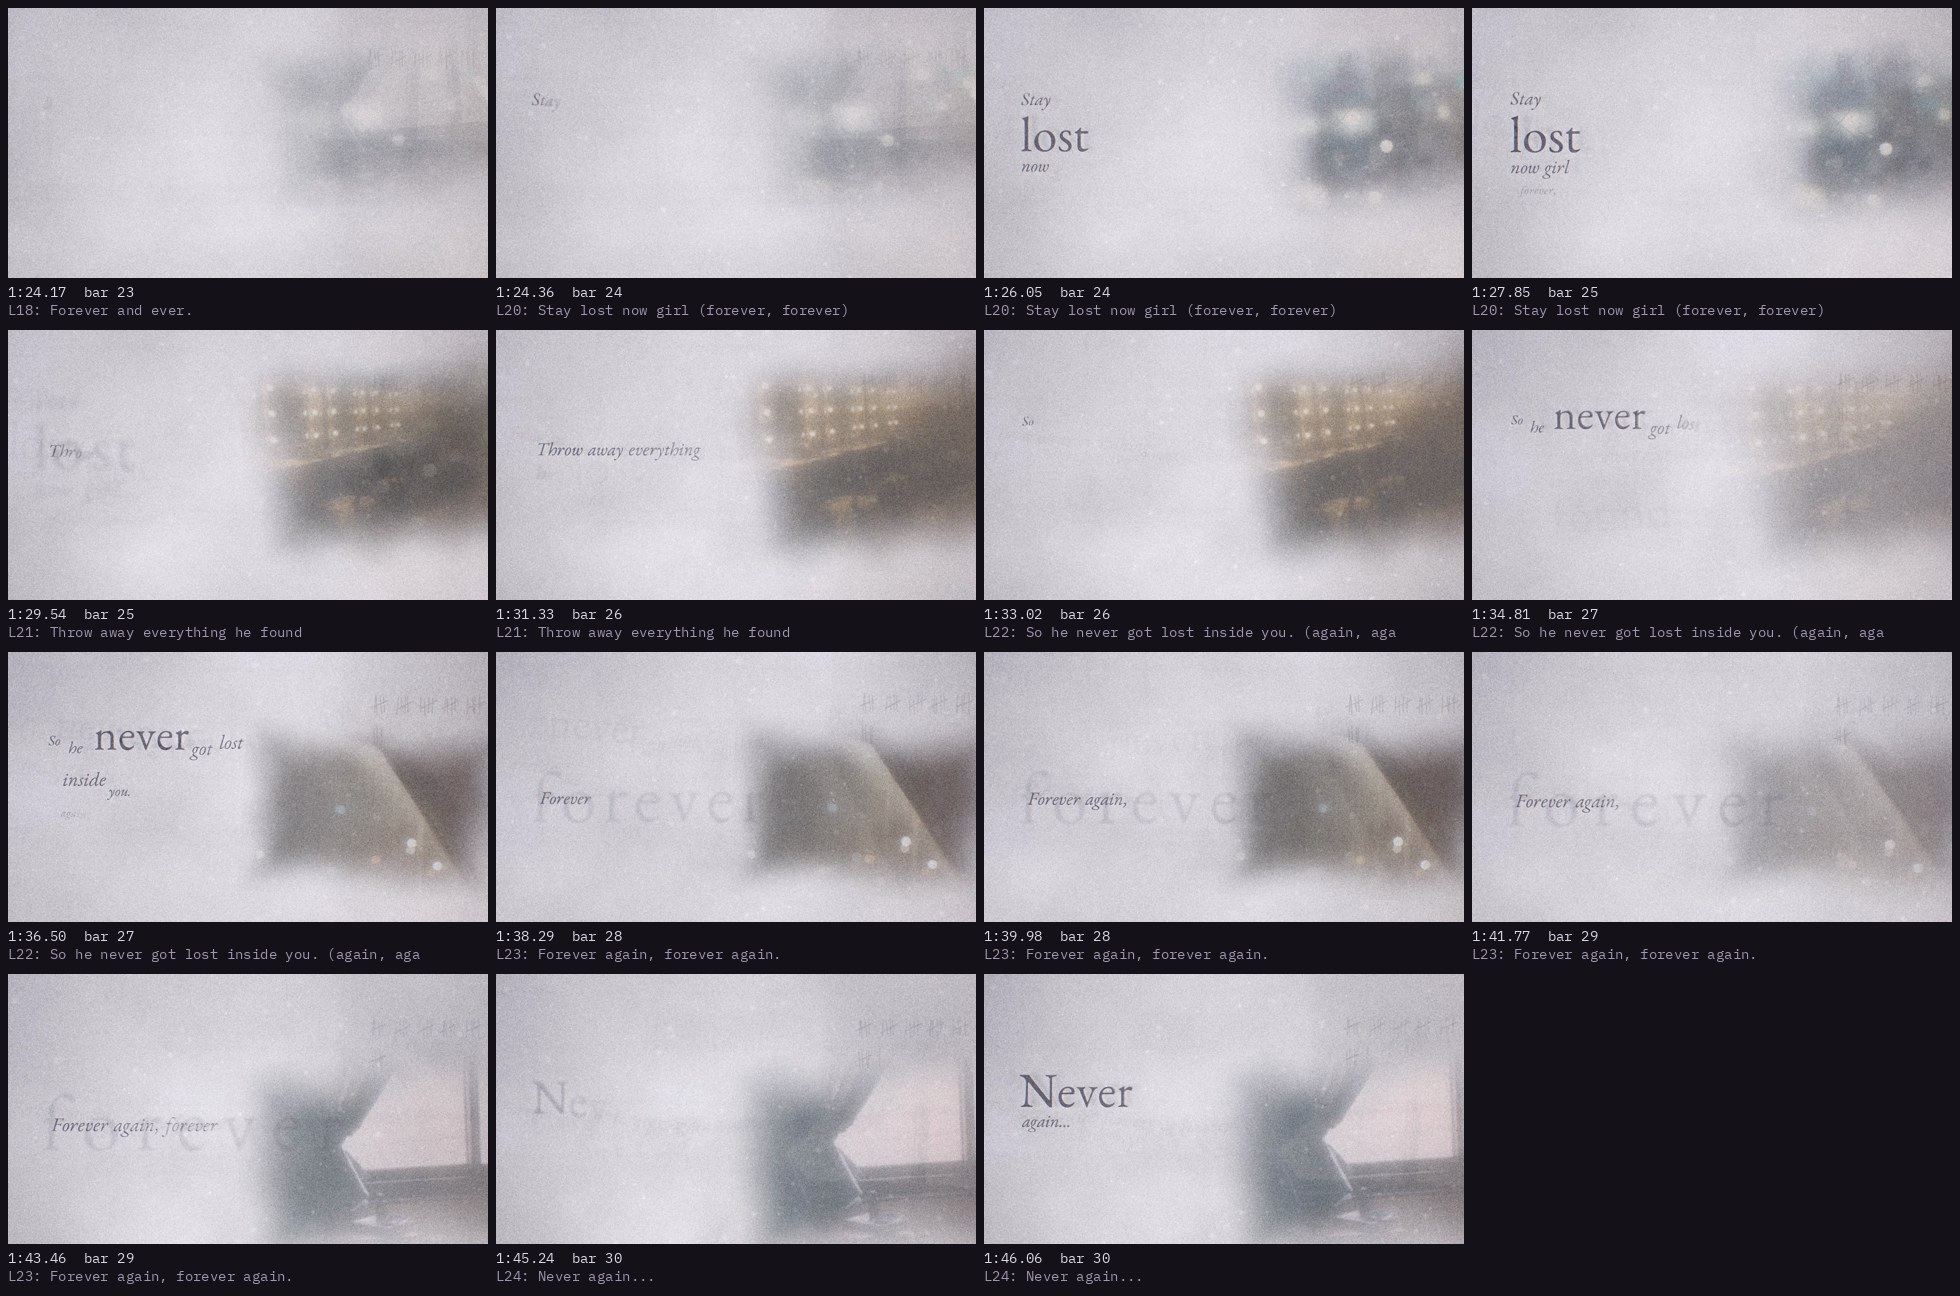
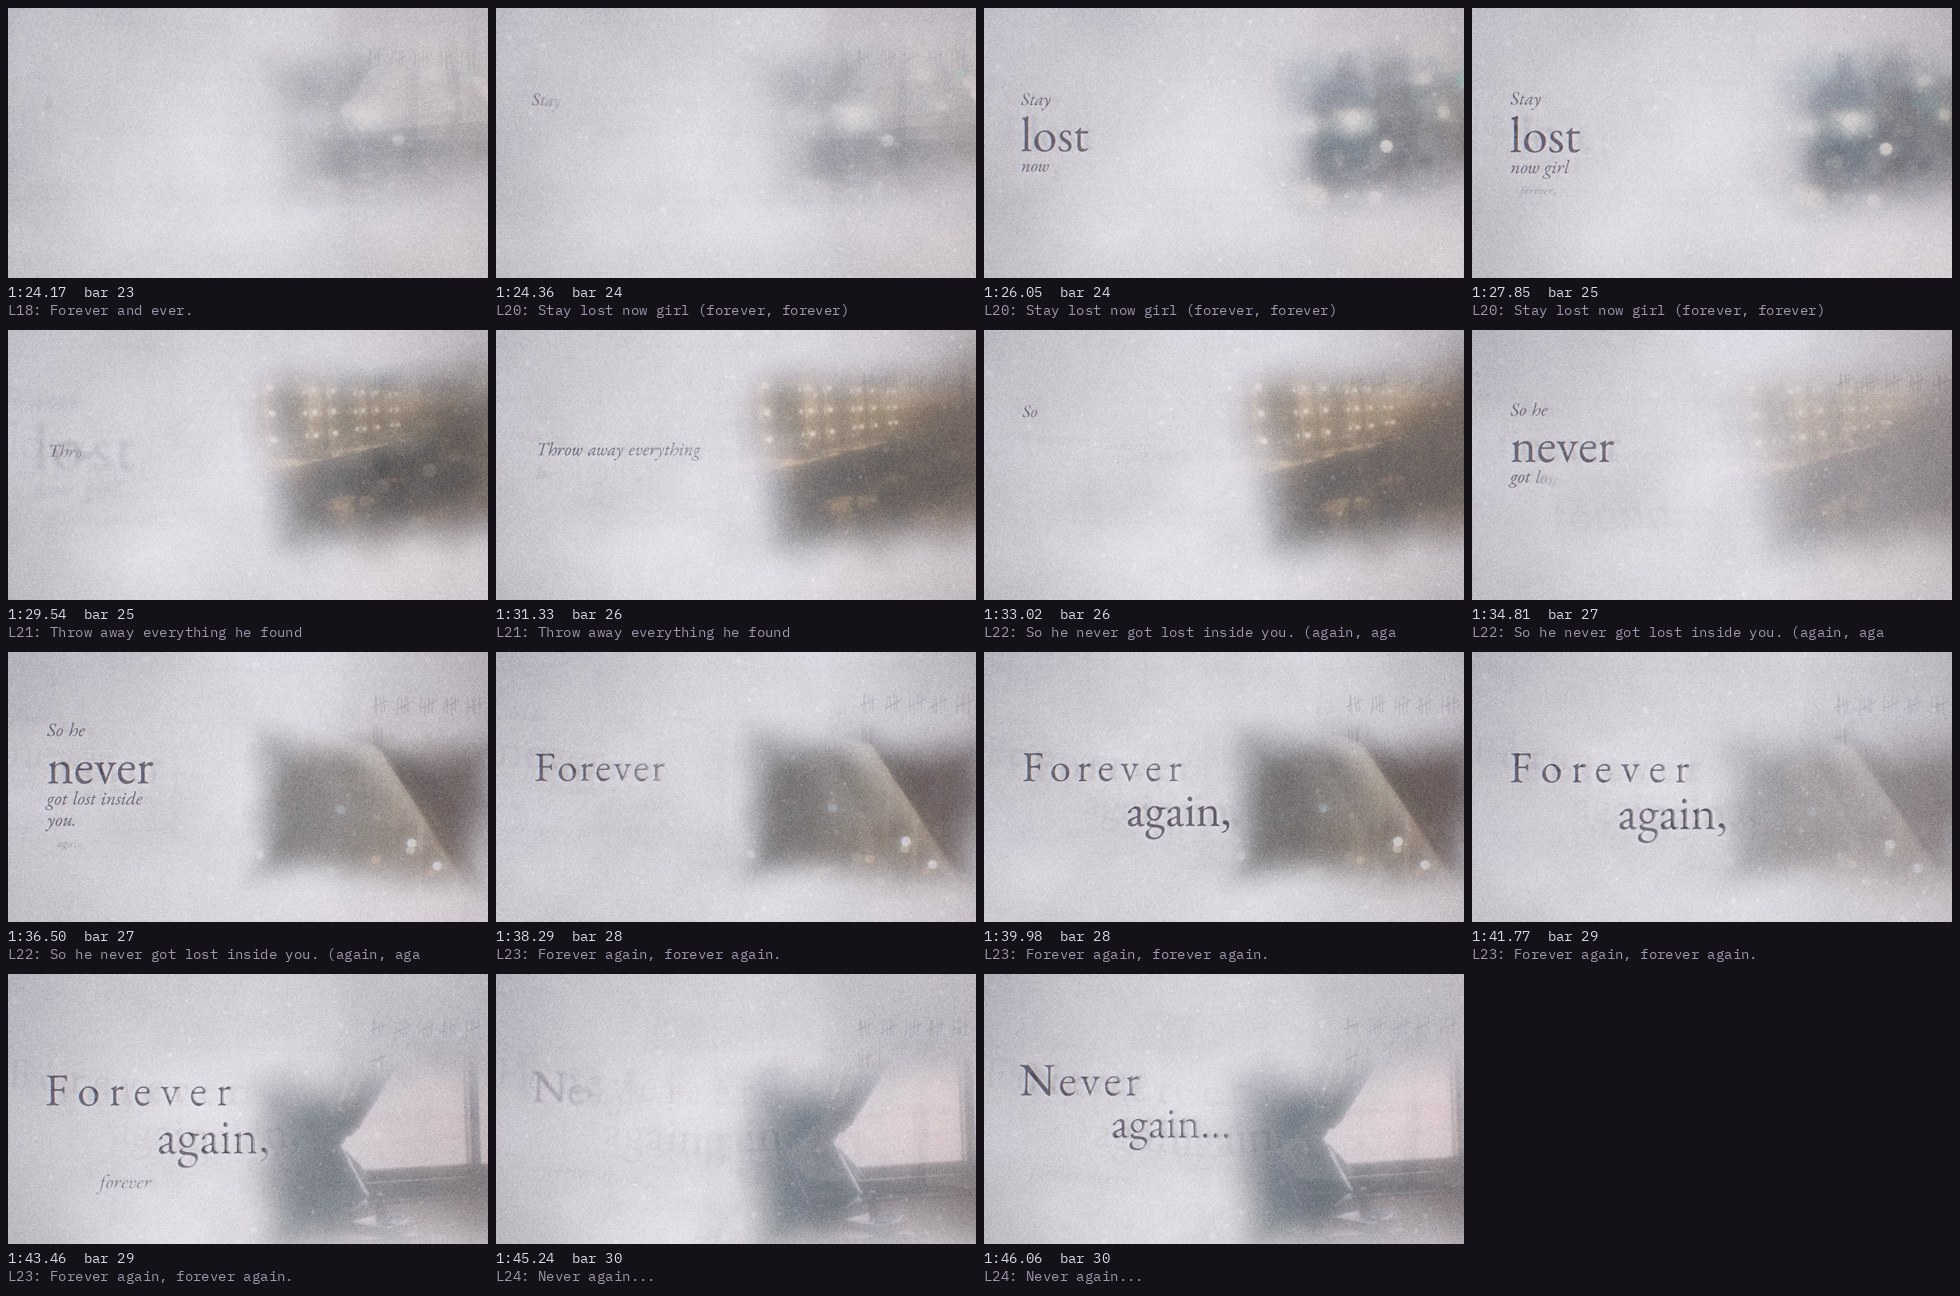
Refrain I: forever/again and never/again as juxtaposed pairs
- refrain lines 23/24 (and 110/111 in Refrain II) use the pair layout;
  line 22 moves to a cleaner stack with 'never' as hero
- pair layout leaves room under each hero for descenders

Claude-Session: https://claude.ai/code/session_013aPae8dR11r7xw8o95d9Yi

diff --git a/storyboard/index.html b/storyboard/index.html
@@ -144,6 +144,14 @@ ol.steps li::marker { font: 600 0.85rem var(--mono); color: var(--ink-2); }
   <section aria-labelledby="h-built">
     <div class="col"><span class="eyebrow">Built so far</span><h2 id="h-built">The film</h2></div>
     <div class="frames">
+<figure class="render" id="render-refrain_i">
+  <video controls playsinline preload="metadata" poster="renders/refrain_i_poster.jpg" width="1280" height="720">
+    <source src="renders/refrain_i.mp4" type="video/mp4">
+  </video>
+  <figcaption><b>Refrain I: Stay lost now girl</b>
+    <span class="tc">1:24.2 → 1:46.3 · bars 24–30</span>
+    <span class="note">Forever against again: &#x27;Forever&#x27; keeps stretching, &#x27;again,&#x27; lands, the repeat trails small; then &#x27;Never&#x27; against &#x27;again...&#x27;. Web copy at 720p; the 1080p master passed QA and ffprobe. <a href="renders/refrain_i_contact.jpg">Contact sheet</a></span></figcaption>
+</figure>
 <figure class="render" id="render-verse_a_line6">
   <video controls playsinline preload="metadata" poster="renders/verse_a_line6_poster.jpg" width="1280" height="720">
     <source src="renders/verse_a_line6.mp4" type="video/mp4">

diff --git a/video/kinetic.py b/video/kinetic.py
@@ -123,13 +123,22 @@ def layout(T, n, style=None, hero=None, seed=0, voice="her"):
         groups = [(list(range(0, ha)), "word"), ([ha], "A"), (list(range(ha + 1, hb)), "word"),
                   ([hb], "B"), (list(range(hb + 1, len(words))), "word")]
         heights = {"A": sa * 0.95, "B": sb * 0.95, "word": small * 1.15}
-        total = sum(heights[k] for g, k in groups if g)
+        # small rows that follow a hero get room for its descenders (g, y, p)
+        desc = {1: sa * 0.24, 3: sb * 0.24}
+        steps = []
+        for gi, (g, k) in enumerate(groups):
+            if g:
+                extra = desc.get(gi - 1, 0) if k == "word" and groups[gi - 1][0] else 0
+                steps.append(heights[k] + extra)
+        total = sum(steps)
         y = (y0 + y1) / 2 - total / 2
         a_w = font(kr, sa).measureText(words[ha]["disp"])
+        si = 0
         for g, k in groups:
             if not g:
                 continue
-            y += heights[k]
+            y += steps[si]
+            si += 1
             if k == "A":
                 out.append(dict(word=words[ha], x=x0, y=y, size=sa, key=kr, z=1.0,
                                 tracking=0.0, role="hero", stretch=True))

diff --git a/video/sections.py b/video/sections.py
@@ -211,11 +211,13 @@ def there_comes_a_once(t, T, lines):
 
 
 REFRAIN_SHOTS = {20: dict(style="stack", hero=1), 21: dict(style="stack", hero=4),
-                 22: dict(style="depth", hero=2), 23: dict(style="hero", hero=0),
-                 24: dict(style="stack", hero=0),
+                 22: dict(style="stack", hero=2),
+                 23: dict(hero=[0, 1]),                  # forever / again
+                 24: dict(hero=[0, 1]),                  # never / again
                  107: dict(style="stack", hero=1), 108: dict(style="stack", hero=5),
-                 109: dict(style="depth", hero=2), 110: dict(style="hero", hero=0),
-                 111: dict(style="stack", hero=0)}
+                 109: dict(style="stack", hero=2),
+                 110: dict(hero=[0, 1]),
+                 111: dict(hero=[0, 1])}
 
 
 def refrain(name, react):

diff --git a/storyboard/spec.py b/storyboard/spec.py
@@ -202,6 +202,8 @@ STYLE_FRAMES = [
 
 # Sections built so far: (slug, section name, note shown under the player)
 RENDERS = [
+    ("refrain_i", "Refrain I: Stay lost now girl",
+     "Forever against again: 'Forever' keeps stretching, 'again,' lands, the repeat trails small; then 'Never' against 'again...'. Web copy at 720p; the 1080p master passed QA and ffprobe."),
     ("verse_a_line6", "Verse A: Through eyes",
      "Revised line: 'A hand, as ever as it was once'. 'ever' and 'once' set against each other on a diagonal; 'ever' keeps opening, 'once' lands. The Verse A clip below still has the old version of this line.",
      (34.5, 44.5)),
